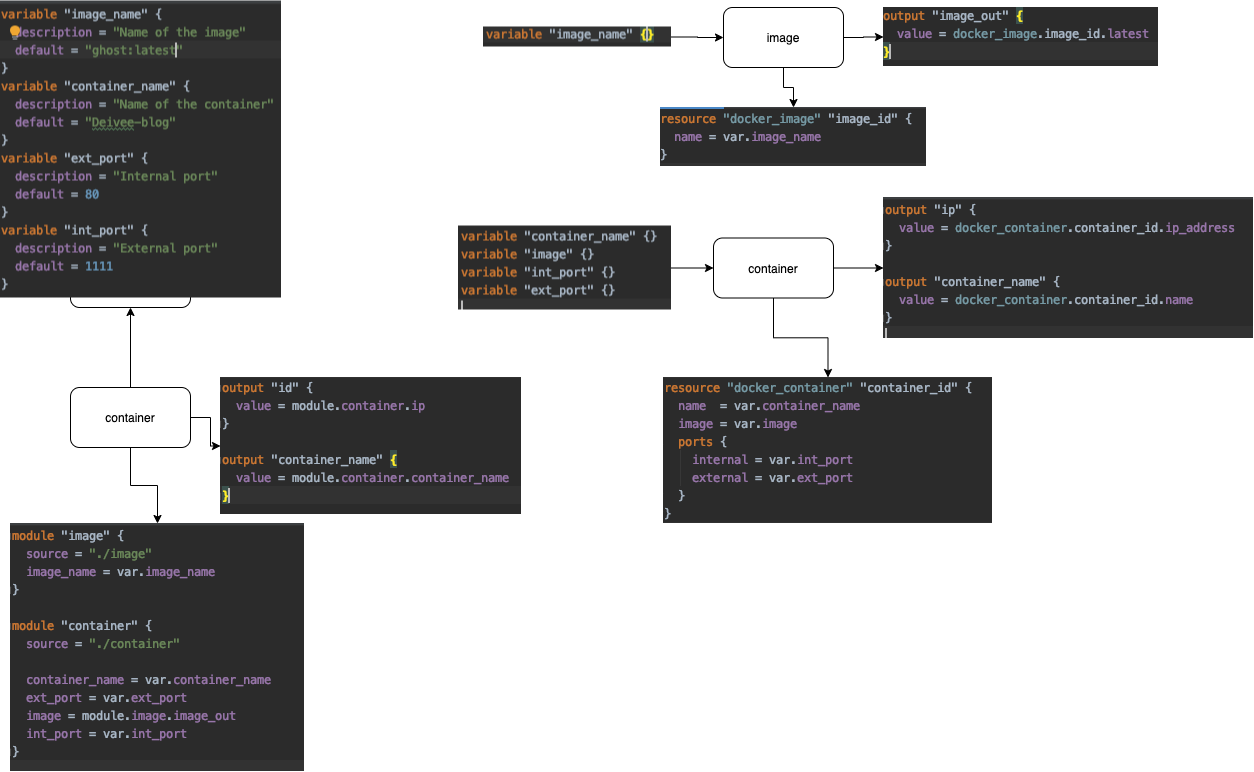
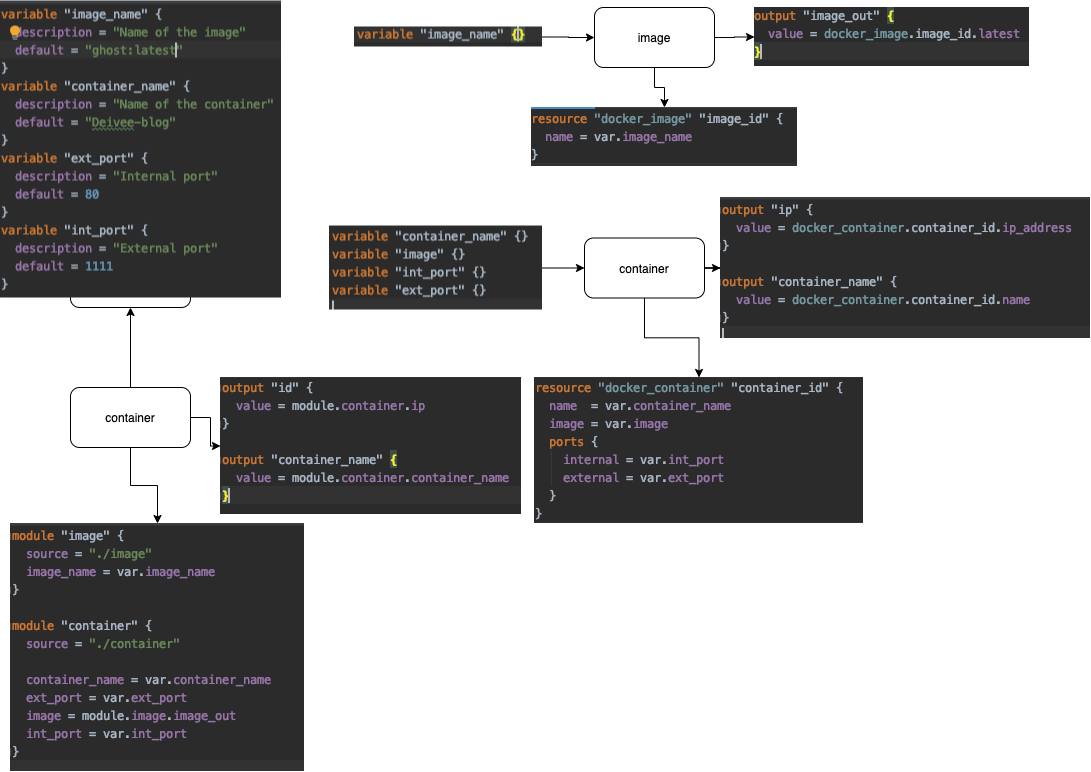
test terraform content

diff --git a/samples/modules/readme.md b/samples/modules/readme.md
@@ -1,4 +1,4 @@
 ### Modules
 
 
-<img src="../../../images"></img>
+<img src="../../../images/Terraform-Modules.png"></img>
